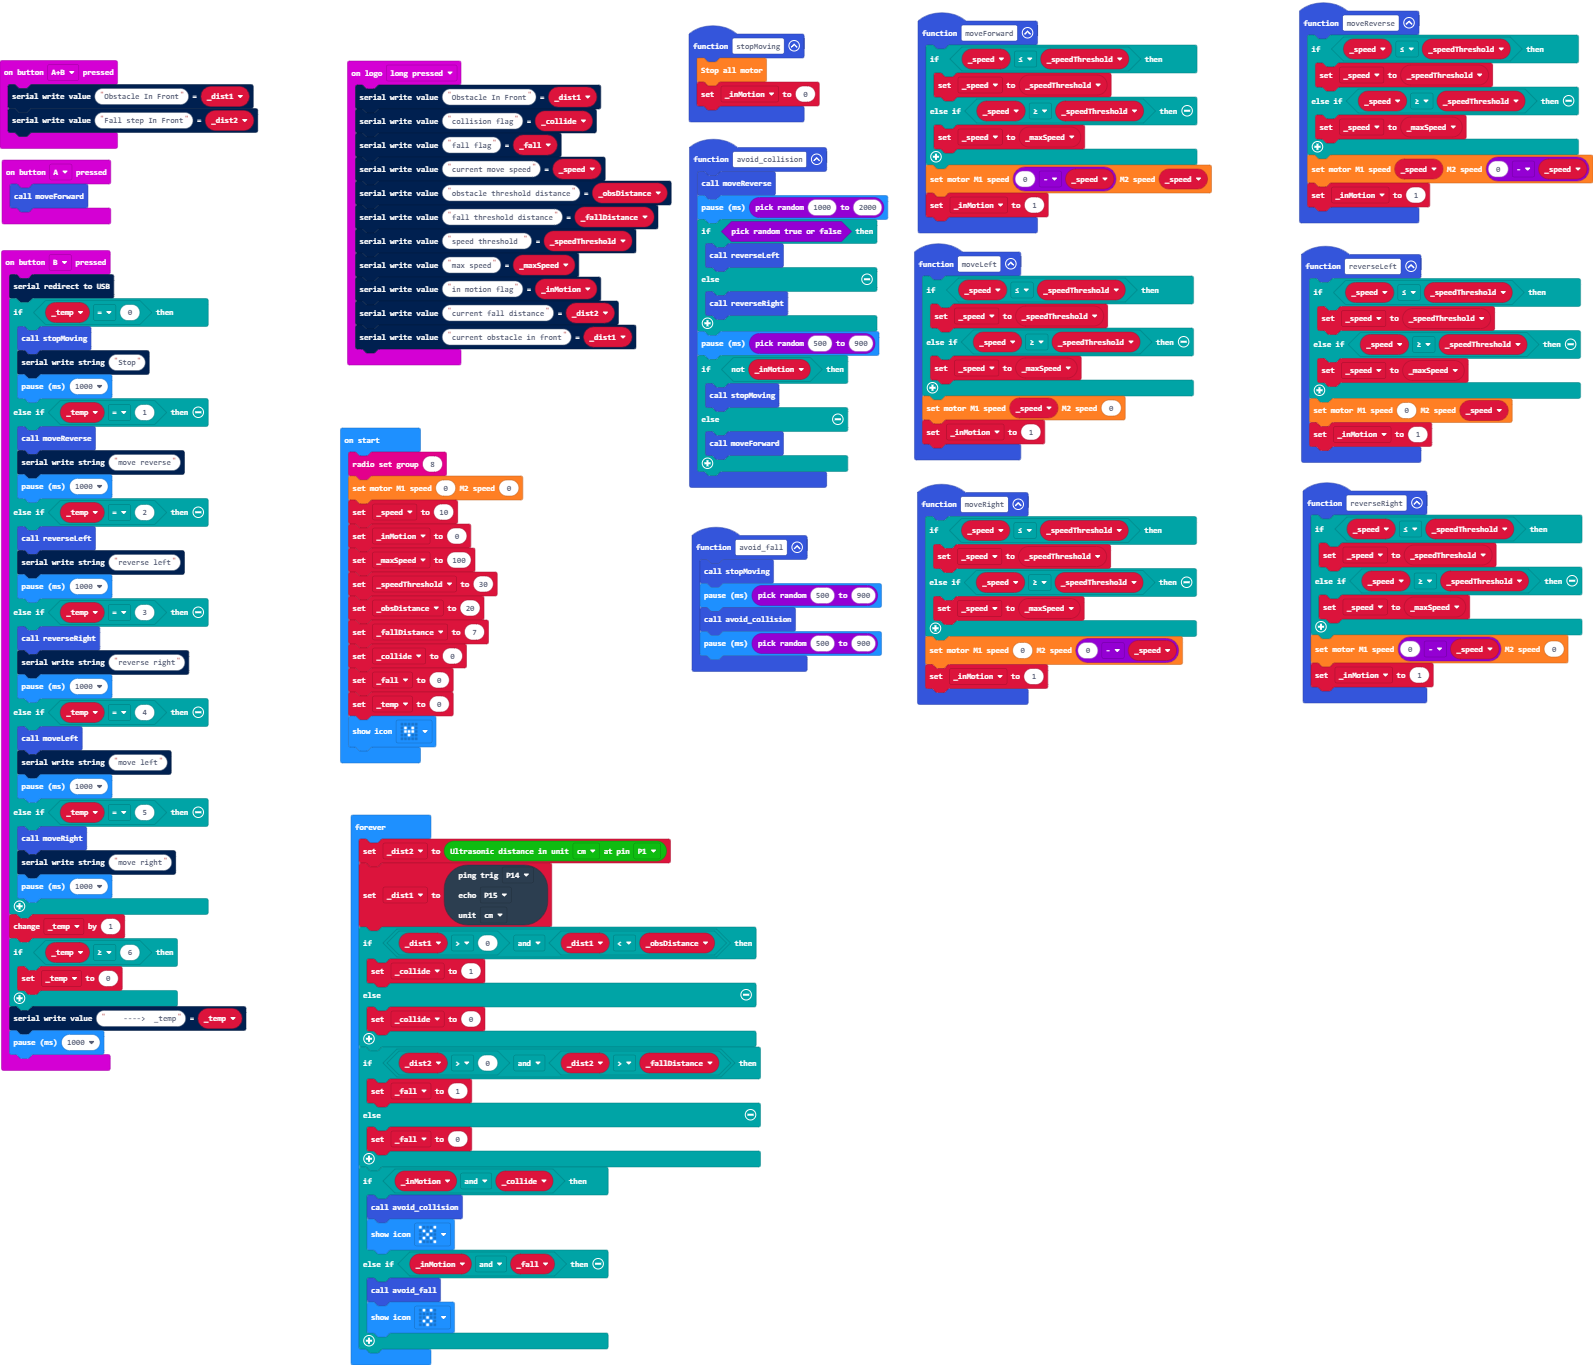
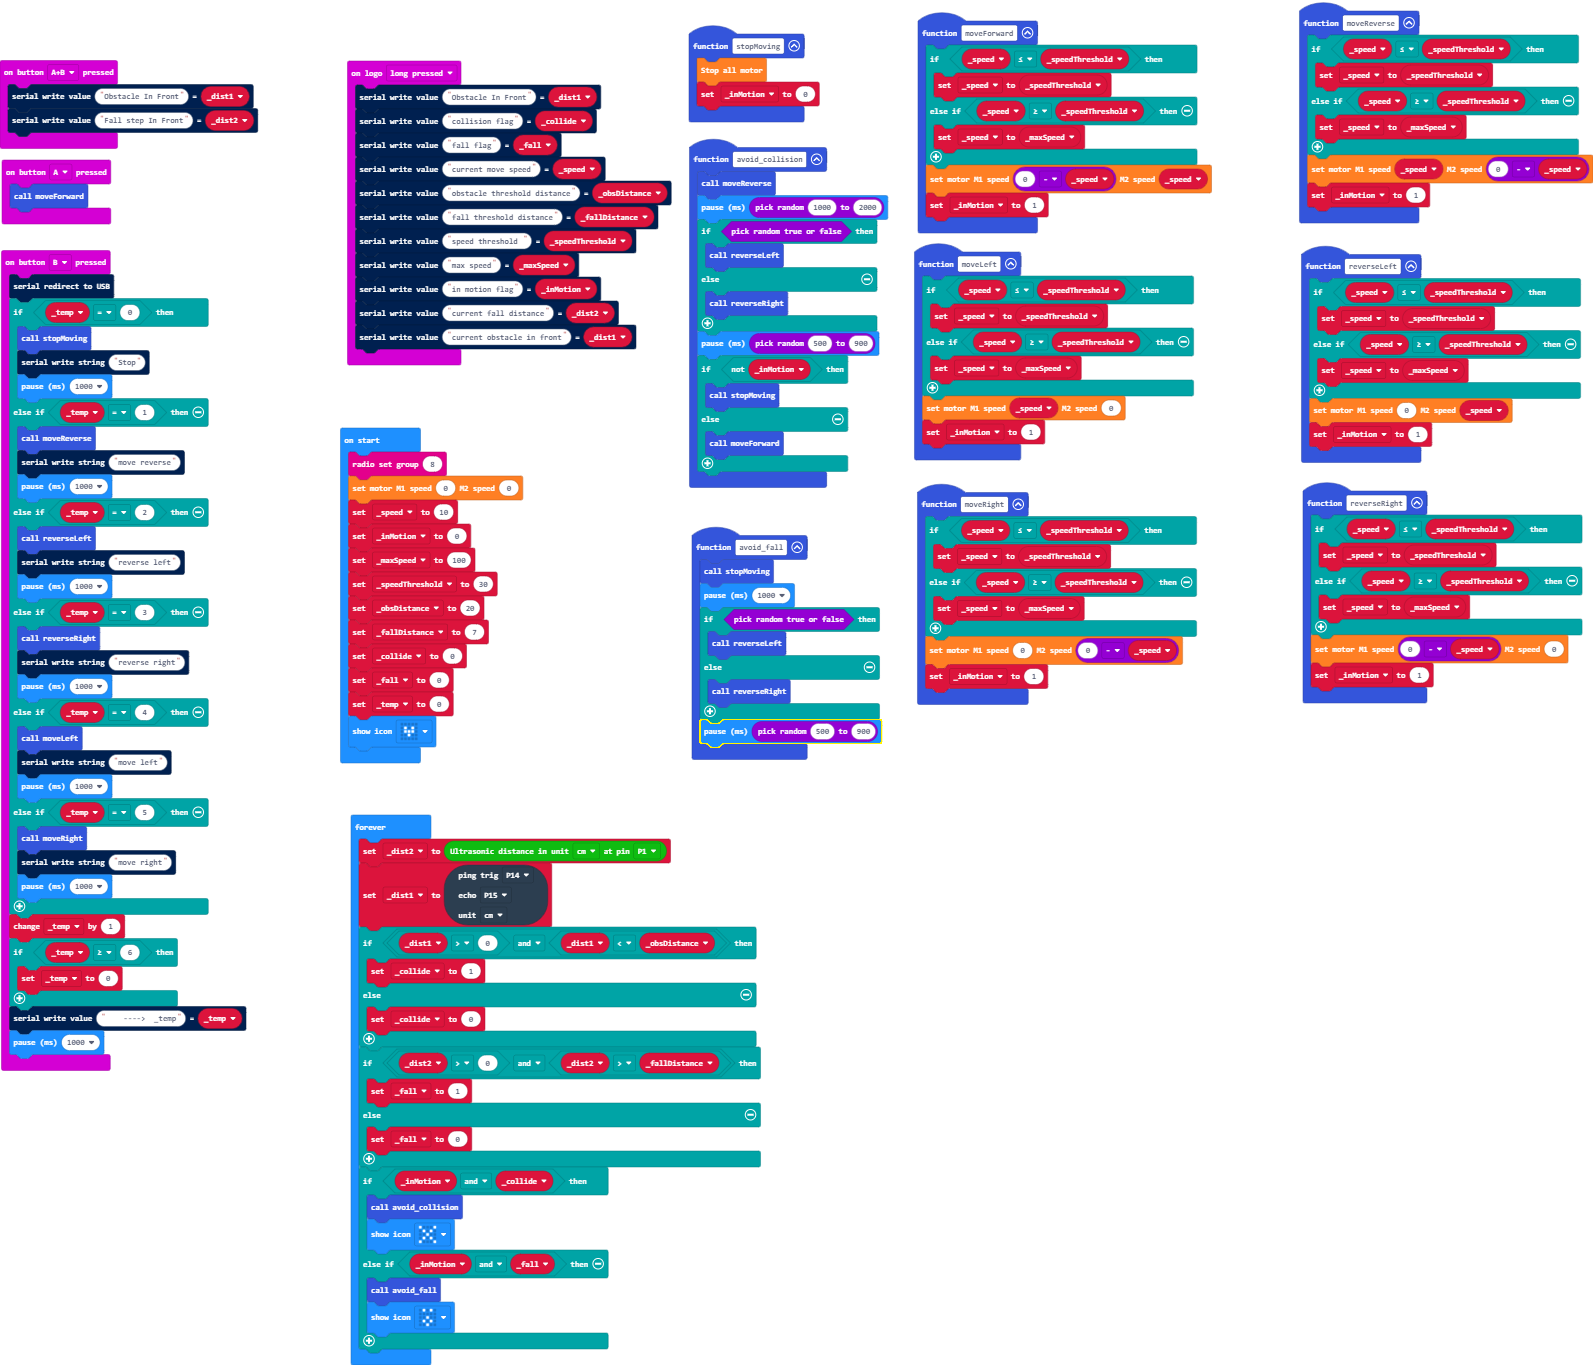
Update main.blocks, main.ts

Changed region(s): [[0.4306, 0.4, 0.5537, 0.5538]]

diff --git a/main.ts b/main.ts
@@ -127,8 +127,12 @@ function moveLeft () {
 }
 function avoid_fall () {
     stopMoving()
-    basic.pause(randint(500, 900))
-    avoid_collision()
+    basic.pause(1000)
+    if (Math.randomBoolean()) {
+        reverseLeft()
+    } else {
+        reverseRight()
+    }
     basic.pause(randint(500, 900))
 }
 let _dist2 = 0
